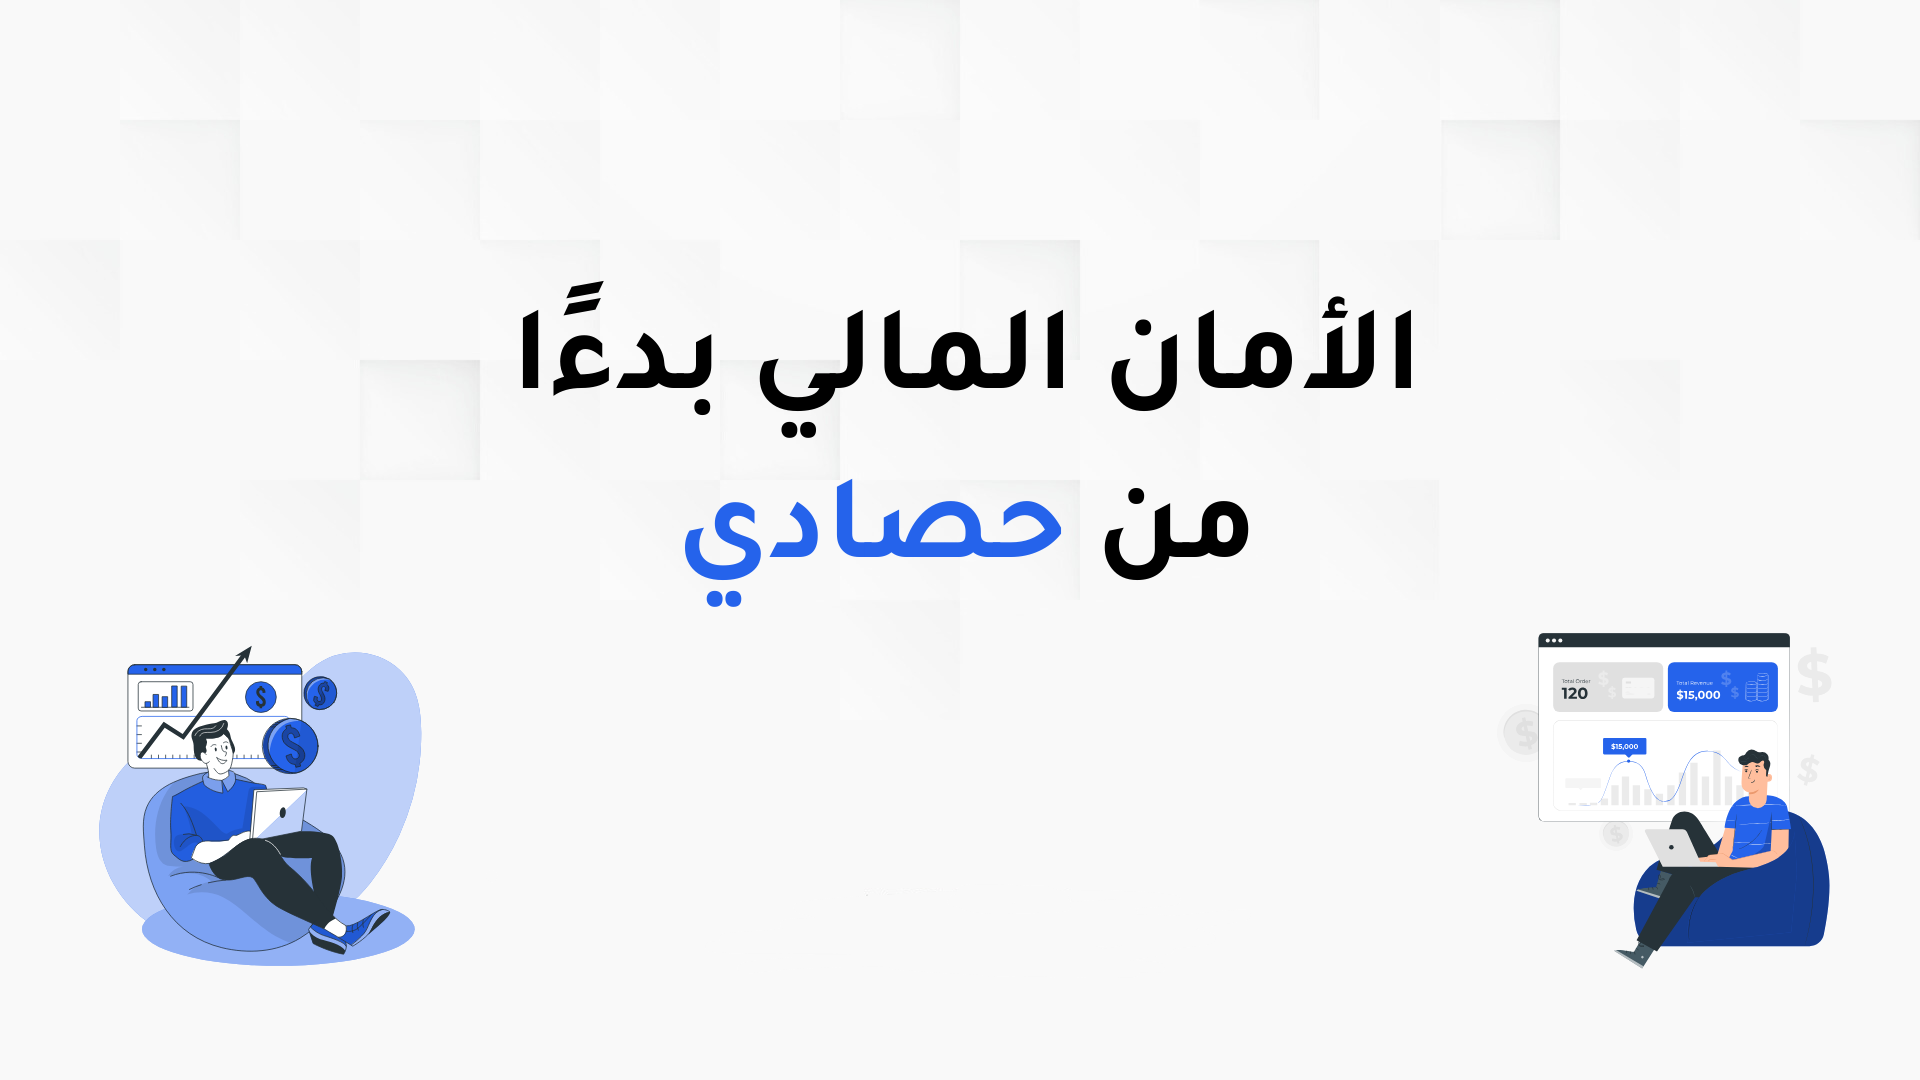
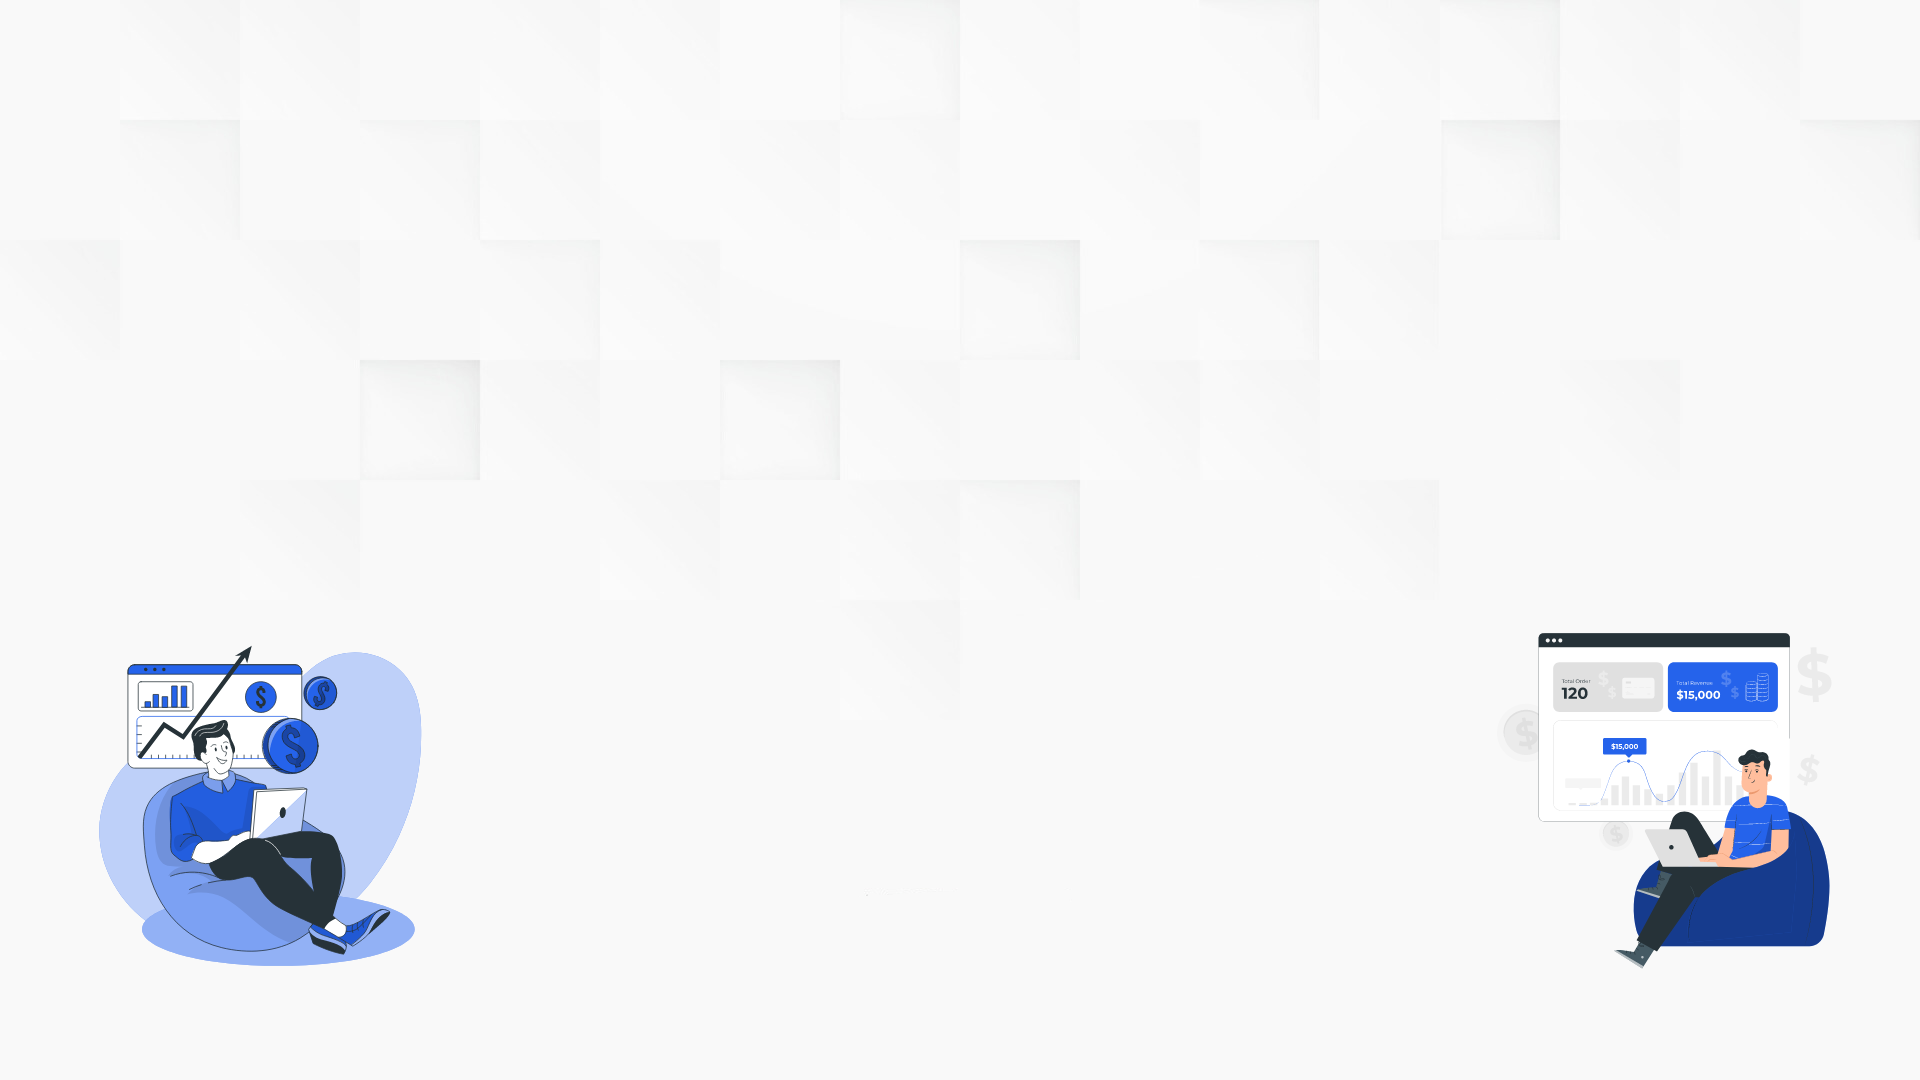
feat: add animation to the homepage

Changed region(s): [[0.25, 0.2444, 0.75, 0.4278], [0.3438, 0.4583, 0.6562, 0.5806]]

diff --git a/app/page.tsx b/app/page.tsx
@@ -1,5 +1,7 @@
+"use client";
+
 import { Button } from "@/components/ui/button";
-// import { Player } from "@lottiefiles/react-lottie-player";
+import { Player } from "@lottiefiles/react-lottie-player";
 
 export default function Home() {
   return (
@@ -16,15 +18,15 @@ export default function Home() {
             متحمس تعرف أكثر؟ 🔥
           </Button>
         </div>
-        <div>
-          {/* <Player
-            src="./animation.json"
+        <div className="mt-12">
+          <Player
+            src="/assets/animations/homepage.json"
             background="transparent"
-            speed="1"
-            style={{ width: "200px", height: "200px" }}
+            speed={0.9}
+            style={{ width: "400px", height: "400px" }}
             loop
             autoplay
-          /> */}
+          />
         </div>
       </div>
     </main>
